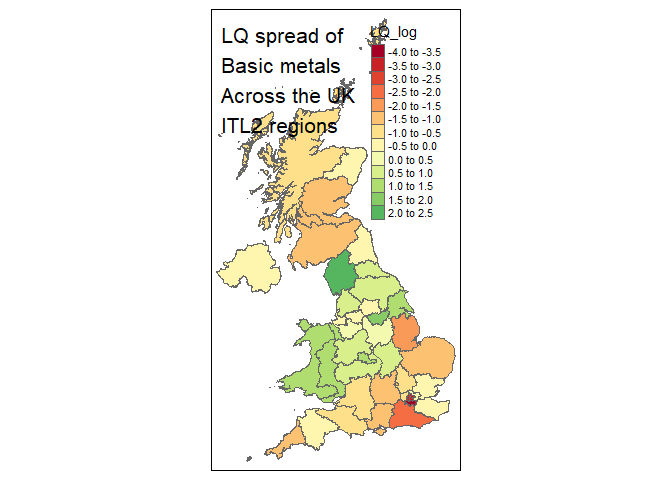
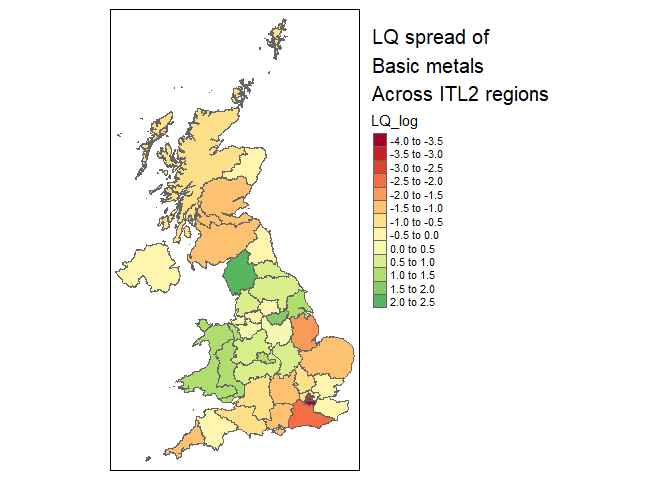
Map

Changed region(s): [[0.1562, 0.0312, 0.8125, 0.9688]]

diff --git a/README.md b/README.md
@@ -280,7 +280,7 @@ sector_LQ_map <- itl2.geo %>%
 #Plot map
 tm_shape(sector_LQ_map) +
   tm_polygons('LQ_log', n = 9) +
-  tm_layout(title = 'LQ spread of\nBasic metals\nAcross the UK\nITL2 regions')
+  tm_layout(title = 'LQ spread of\nBasic metals\nAcross ITL2 regions', legend.outside = T)
 ```
 
 ![](README_files/figure-gfm/geogconc_map-1.png)<!-- -->
